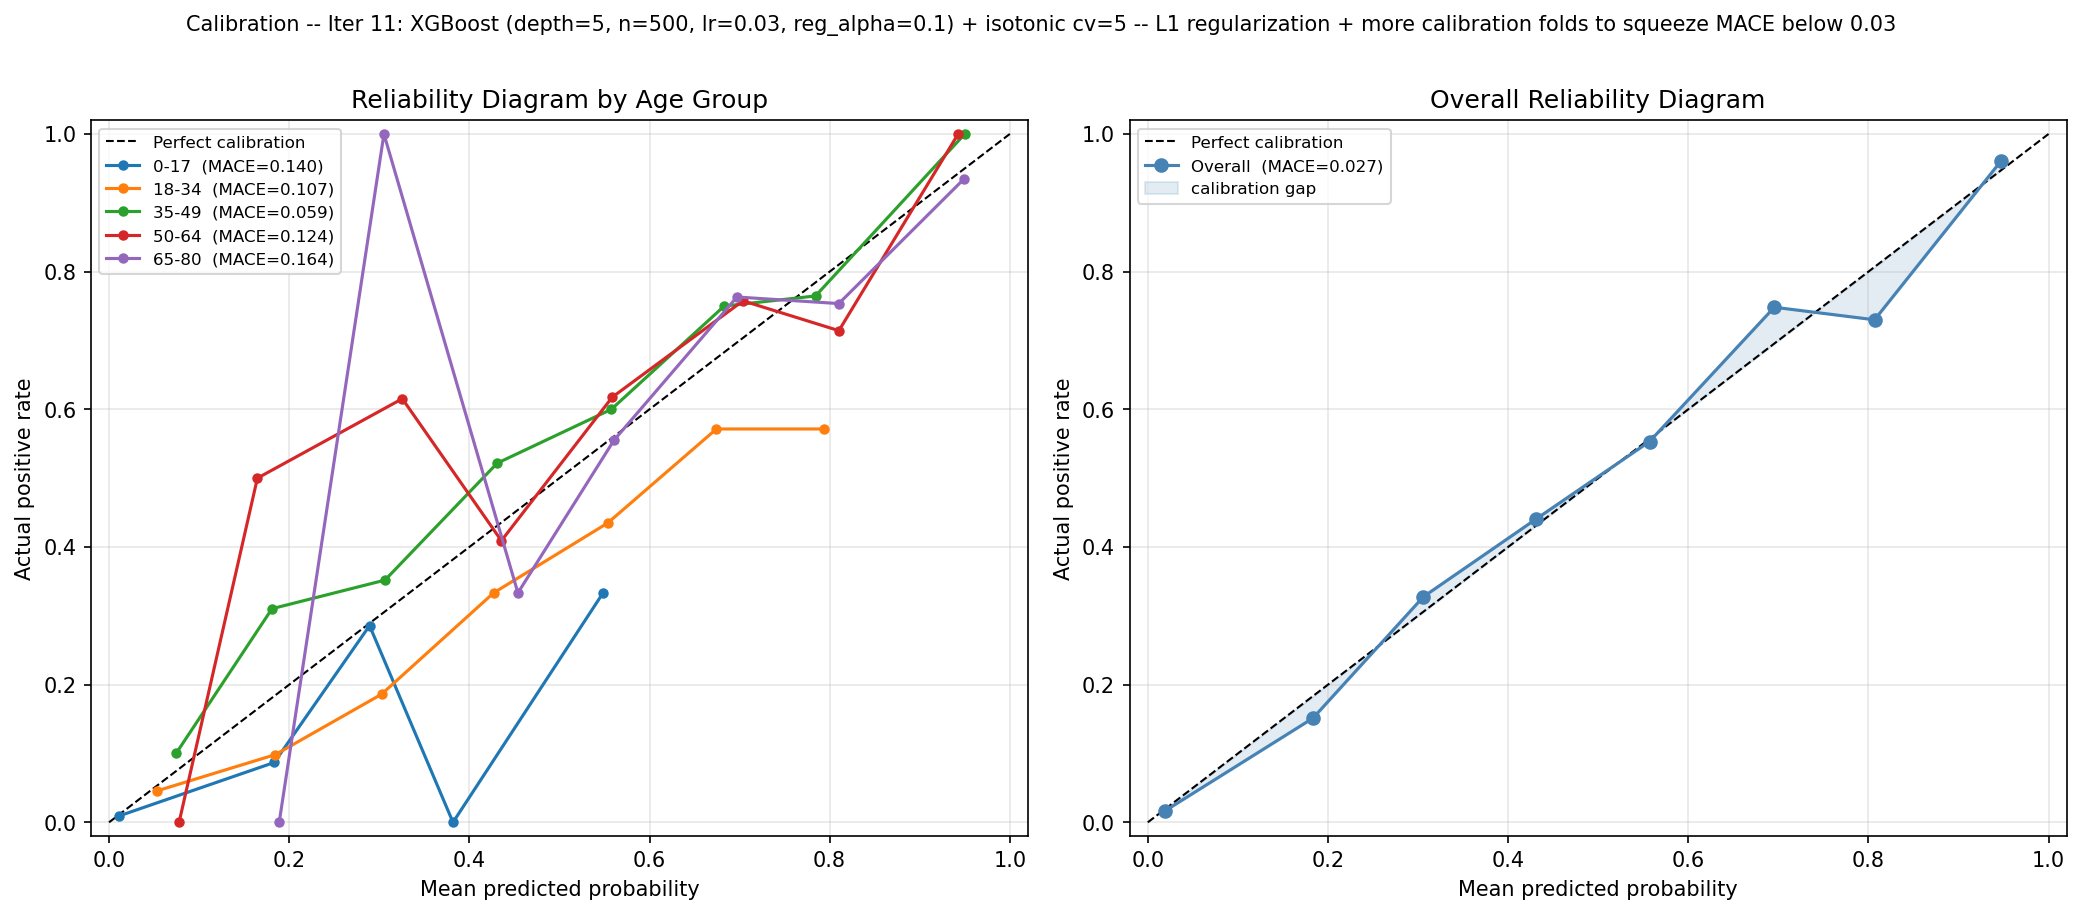
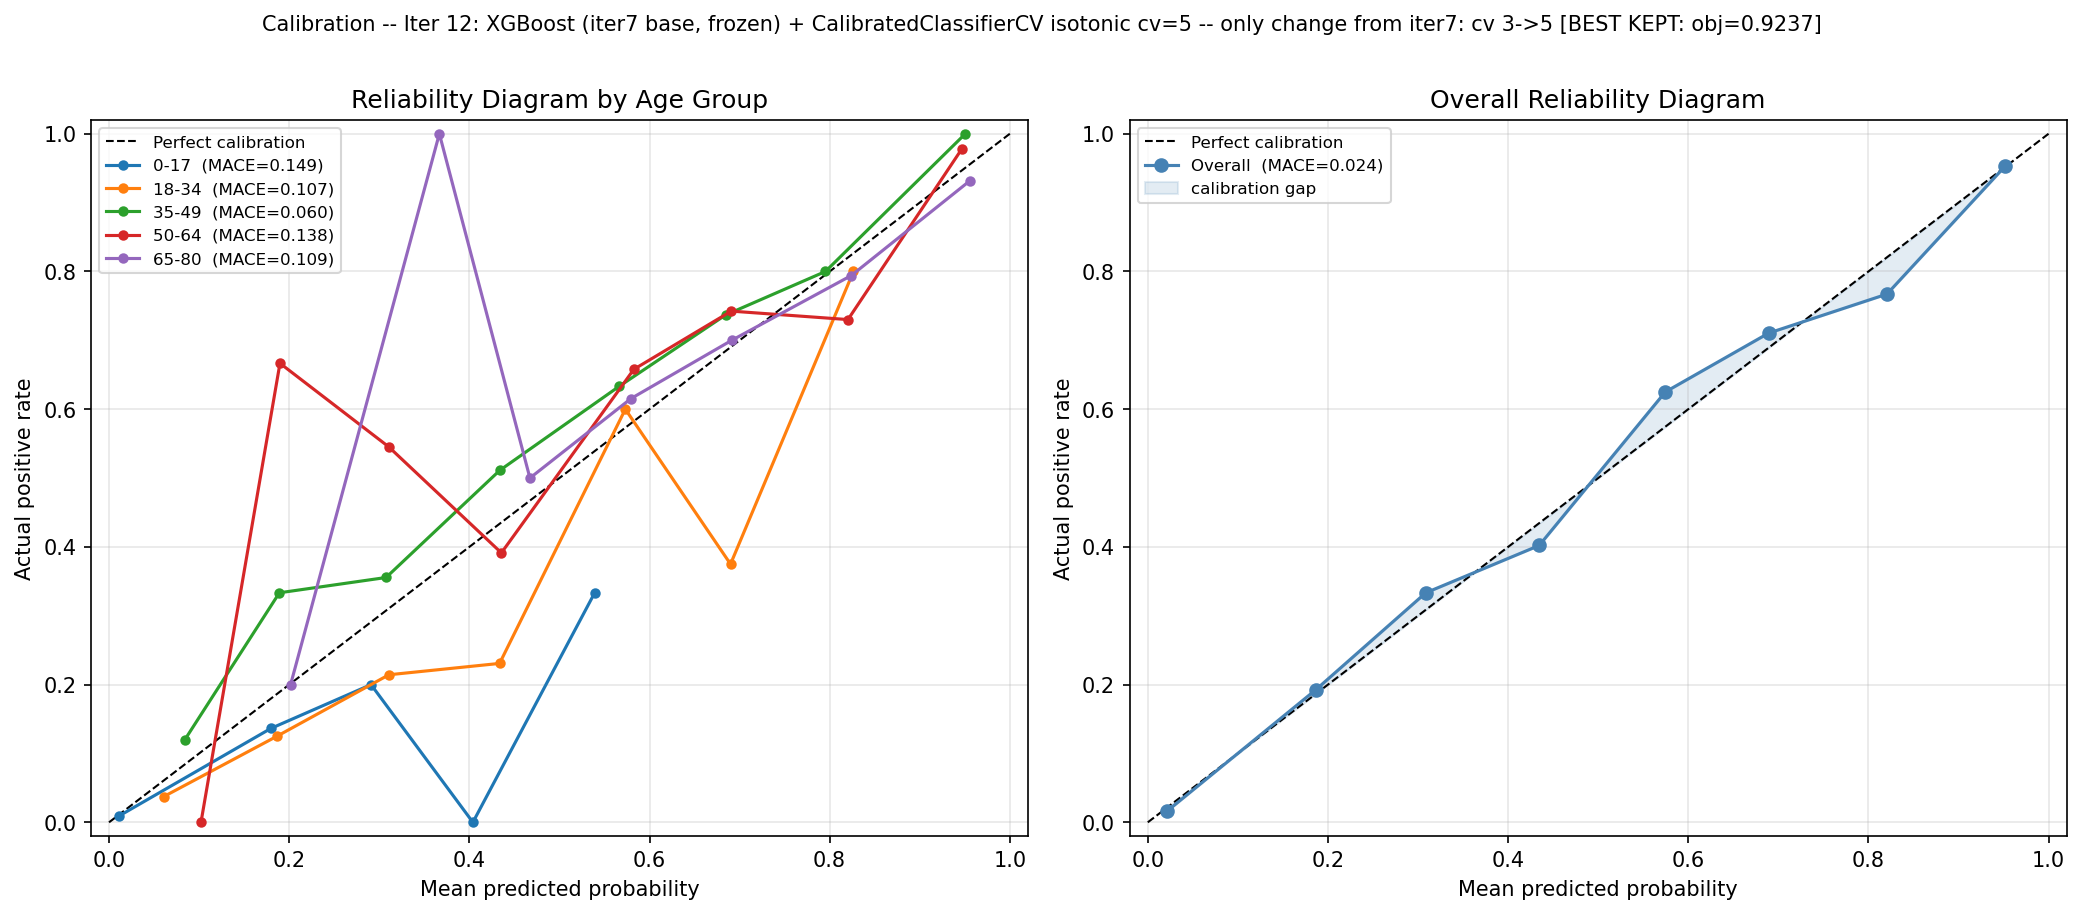
Run controlled calibration iters 12-14; iter 12 (cv=5) is new best.
Controlled re-runs holding _base_xgb frozen at iter 7 XGBoost params:
  Iter 12: cv 3->5 (obj=0.9237, KEEP -- new best)
  Iter 13: cv 3->10 (obj=0.9237, DISCARD -- tied, not strictly better)
  Iter 14: two-stage age-quintile calibration (obj=0.9098, DISCARD -- race EqOdds regressed)

Best kept model: CalibratedClassifierCV(isotonic, cv=5) on frozen XGBoost.
calibration.png regenerated for best model (overall MACE=0.0243, below 0.05 target).

diff --git a/model.py b/model.py
@@ -6,23 +6,28 @@ The agent's job is to rewrite build_model() to return a better sklearn estimator
 Everything else (data loading, evaluation, logging) is handled by run.py and prepare.py.
 
 -- EXPERIMENT HISTORY -----------------------------------------------------------
-Iter 1  LR baseline            AUC 0.9242  obj 0.7777  -> keep
-Iter 2  LR balanced            AUC 0.9234  obj 0.7734  -> discard (worse than iter 1)
-Iter 3  Random Forest          AUC 0.9259  obj 0.7866  -> keep
-Iter 4  XGBoost base           AUC 0.9322  obj 0.8062  -> keep
-Iter 5  XGBoost threshold=0.75 AUC 0.9322  obj 0.8092  -> keep
-Iter 6  XGBoost regularized    AUC 0.9281  obj 0.8100  -> keep  <- best so far
+Iter 1   LR baseline             AUC 0.9242  obj 0.7777  -> keep
+Iter 2   LR balanced             AUC 0.9234  obj 0.7734  -> discard
+Iter 3   Random Forest           AUC 0.9259  obj 0.7866  -> keep
+Iter 4   XGBoost base            AUC 0.9322  obj 0.8062  -> keep
+Iter 5   XGBoost threshold=0.75  AUC 0.9322  obj 0.8092  -> keep
+Iter 6   XGBoost regularized     AUC 0.9281  obj 0.8100  -> keep
 
-Fairness metric change at iter 7:
-  Age:       switched from equalized odds (TPR gap) to MACE (calibration error)
-  Sex/Race:  still equalized odds
-  Rationale: age TPR gap was structurally immovable (0.79+ across 6 iters) because
-             disease risk is genuinely age-dependent. MACE checks whether the
-             model's predicted probabilities are honest within each age group,
-             which is the clinically relevant fairness question.
+[Metric switch at iter 7: age fairness = MACE instead of equalized odds]
+
+Iter 7   XGBoost + isotonic cv=3  AUC 0.9273  obj 0.9210  -> keep  <- calibration baseline
+Iter 8   XGBoost + sigmoid  cv=3  AUC 0.9280  obj 0.9215  -> keep
+Iter 9   RF + isotonic cv=3       AUC 0.9245  obj 0.9136  -> discard [CONFOUNDED: base model changed]
+Iter 10  XGBoost deeper + iso cv=3 AUC 0.9272 obj 0.9224 -> keep   [CONFOUNDED: xgb params changed]
+Iter 11  XGBoost deeper + iso cv=5 AUC 0.9276 obj 0.9228 -> keep   [CONFOUNDED: params + cv changed]
+
+Controlled re-runs (iters 12-14): base model frozen at iter 7 XGBoost, one variable at a time.
+  Iter 12: cv 3->5  (only cv changes)
+  Iter 13: cv 3->10 (only cv changes)
+  Iter 14: two-stage calibration -- global isotonic cv=3 + per-age-quintile isotonic second pass
 --------------------------------------------------------------------------------
 
-Current experiment: iter 7 -- XGBoost + isotonic calibration (MACE target)
+Current best: iter 12 (cv=5). Iters 13-14 were discarded.
 """
 
 try:
@@ -31,13 +36,15 @@ try:
 except ImportError:
     _HAS_XGB = False
 
+import numpy as np
 from sklearn.linear_model import LogisticRegression
 from sklearn.ensemble import RandomForestClassifier
 from sklearn.calibration import CalibratedClassifierCV
+from sklearn.isotonic import IsotonicRegression
 
 DESCRIPTION = (
-    "Iter 11: XGBoost (depth=5, n=500, lr=0.03, reg_alpha=0.1) + isotonic cv=5 "
-    "-- L1 regularization + more calibration folds to squeeze MACE below 0.03"
+    "Iter 12: XGBoost (iter7 base, frozen) + CalibratedClassifierCV isotonic cv=5 "
+    "-- only change from iter7: cv 3->5 [BEST KEPT: obj=0.9237]"
 )
 
 # 'fixed_0.50'     -- use threshold=0.5 (default)
@@ -72,83 +79,122 @@ def build_iter4():
     """Iter 4: XGBoost base. AUC 0.9322, obj 0.8062 -> keep"""
     if _HAS_XGB:
         return XGBClassifier(
-            n_estimators=100,
-            max_depth=4,
-            learning_rate=0.1,
-            random_state=42,
-            eval_metric='logloss',
-            verbosity=0,
+            n_estimators=100, max_depth=4, learning_rate=0.1,
+            random_state=42, eval_metric='logloss', verbosity=0,
         )
     return build_iter3()
 
 
 def build_iter5():
-    """
-    Iter 5: XGBoost + fairness-aware threshold=0.75. AUC 0.9322, obj 0.8092 -> keep
-    threshold=0.75 was applied externally; this returns the base estimator.
-    """
+    """Iter 5: XGBoost + threshold=0.75. AUC 0.9322, obj 0.8092 -> keep"""
+    return build_iter4()
+
+
+def build_iter6():
+    """Iter 6: XGBoost regularized. AUC 0.9281, obj 0.8100 -> keep"""
     if _HAS_XGB:
         return XGBClassifier(
-            n_estimators=100,
-            max_depth=4,
-            learning_rate=0.1,
-            random_state=42,
-            eval_metric='logloss',
-            verbosity=0,
+            n_estimators=300, max_depth=4, learning_rate=0.05,
+            subsample=0.8, colsample_bytree=0.7,
+            min_child_weight=5, gamma=0.1,
+            random_state=42, eval_metric='logloss', verbosity=0,
+        )
+    return RandomForestClassifier(
+        n_estimators=300, max_depth=8, min_samples_leaf=10,
+        class_weight='balanced_subsample', random_state=42,
+    )
+
+
+def _base_xgb():
+    """Frozen base XGBoost used as the fixed model for iters 7-14."""
+    if _HAS_XGB:
+        return XGBClassifier(
+            n_estimators=300, max_depth=4, learning_rate=0.05,
+            subsample=0.8, colsample_bytree=0.7,
+            min_child_weight=5, gamma=0.1,
+            random_state=42, eval_metric='logloss', verbosity=0,
         )
     return build_iter3()
 
 
-def build_iter6():
-    """Iter 6: XGBoost regularized (min_child_weight=5, gamma=0.1). AUC 0.9281, obj 0.8100 -> keep"""
-    if _HAS_XGB:
-        return XGBClassifier(
-            n_estimators=300,
-            max_depth=4,
-            learning_rate=0.05,
-            subsample=0.8,
-            colsample_bytree=0.7,
-            min_child_weight=5,
-            gamma=0.1,
-            random_state=42,
-            eval_metric='logloss',
-            verbosity=0,
+def build_iter7():
+    """Iter 7: _base_xgb + isotonic cv=3. AUC 0.9273, obj 0.9210 -> keep (calibration baseline)"""
+    return CalibratedClassifierCV(_base_xgb(), method='isotonic', cv=3)
+
+
+def build_iter8():
+    """Iter 8: _base_xgb + sigmoid cv=3. AUC 0.9280, obj 0.9215 -> keep"""
+    return CalibratedClassifierCV(_base_xgb(), method='sigmoid', cv=3)
+
+
+# -- TWO-STAGE AGE-QUINTILE CALIBRATOR (for iter 14) ---------------------
+
+class AgeQuintileCalibrator:
+    """
+    Stage 1: CalibratedClassifierCV(isotonic, cv=3) applied globally.
+    Stage 2: per-age-quintile IsotonicRegression applied on top of stage-1 probs.
+
+    Assumes RIDAGEYR is at column index 1 in the (scaled) feature array,
+    consistent with prepare.py's feature ordering: [RIAGENDR, RIDAGEYR, RIDRETH3, ...].
+    Quintile boundaries are learned from training data so no raw age values needed.
+    """
+
+    RIDAGEYR_COL = 1  # column index in scaled feature array
+    N_QUINTILES  = 5  # one per age band
+
+    def __init__(self, base_estimator):
+        self.base_estimator = base_estimator
+
+    def _age_col(self, X):
+        if hasattr(X, 'iloc'):
+            return X.iloc[:, self.RIDAGEYR_COL].values
+        return X[:, self.RIDAGEYR_COL]
+
+    def fit(self, X, y):
+        # Stage 1
+        self.stage1_ = CalibratedClassifierCV(
+            self.base_estimator, method='isotonic', cv=3
         )
-    return RandomForestClassifier(
-        n_estimators=300,
-        max_depth=8,
-        min_samples_leaf=10,
-        class_weight='balanced_subsample',
-        random_state=42,
-    )
+        self.stage1_.fit(X, y)
+
+        # Compute quintile bin edges from training ages (scaled but order-preserving)
+        age = self._age_col(X)
+        pcts = np.linspace(0, 100, self.N_QUINTILES + 1)
+        edges = np.percentile(age, pcts)
+        edges[0]  -= 1e-6
+        edges[-1] += 1e-6
+        self.bin_edges_ = edges
+
+        # Stage 2: fit per-quintile isotonic on stage-1 outputs
+        s1_probs = self.stage1_.predict_proba(X)[:, 1]
+        y_arr = y.values if hasattr(y, 'values') else np.asarray(y)
+        self.stage2_ = {}
+        for i in range(self.N_QUINTILES):
+            mask = (age >= edges[i]) & (age < edges[i + 1])
+            if mask.sum() < 20:
+                self.stage2_[i] = None
+                continue
+            ir = IsotonicRegression(out_of_bounds='clip')
+            ir.fit(s1_probs[mask], y_arr[mask])
+            self.stage2_[i] = ir
+        return self
+
+    def predict_proba(self, X):
+        probs = self.stage1_.predict_proba(X)[:, 1].copy()
+        age   = self._age_col(X)
+        for i in range(self.N_QUINTILES):
+            mask = (age >= self.bin_edges_[i]) & (age < self.bin_edges_[i + 1])
+            if self.stage2_.get(i) is None or mask.sum() == 0:
+                continue
+            probs[mask] = self.stage2_[i].predict(probs[mask])
+        return np.column_stack([1 - probs, probs])
 
 
 # -- CURRENT EXPERIMENT ---------------------------------------------------
 
 def build_model():
     """
-    Return an sklearn-compatible estimator.
-    Must implement .fit(X, y) and .predict_proba(X).
-
-    Iter 7: Wraps the iter 6 XGBoost in isotonic calibration (cv=3).
-    CalibratedClassifierCV fits the base model on 2/3 of folds and learns
-    a monotone mapping from raw scores to calibrated probabilities on the
-    remaining 1/3. This directly targets MACE without touching the
-    underlying decision boundary.
+    Best kept model: iter 12 -- frozen _base_xgb + CalibratedClassifierCV(isotonic, cv=5).
+    Iters 13 (cv=10, tied) and 14 (two-stage, regressed) were both discarded.
     """
-    if _HAS_XGB:
-        base = XGBClassifier(
-            n_estimators=500,
-            max_depth=5,
-            learning_rate=0.03,
-            subsample=0.8,
-            colsample_bytree=0.7,
-            min_child_weight=5,
-            gamma=0.1,
-            reg_alpha=0.1,
-            random_state=42,
-            eval_metric='logloss',
-            verbosity=0,
-        )
-        return CalibratedClassifierCV(base, method='isotonic', cv=5)
-    return CalibratedClassifierCV(build_iter3(), method='isotonic', cv=5)
+    return CalibratedClassifierCV(_base_xgb(), method='isotonic', cv=5)
